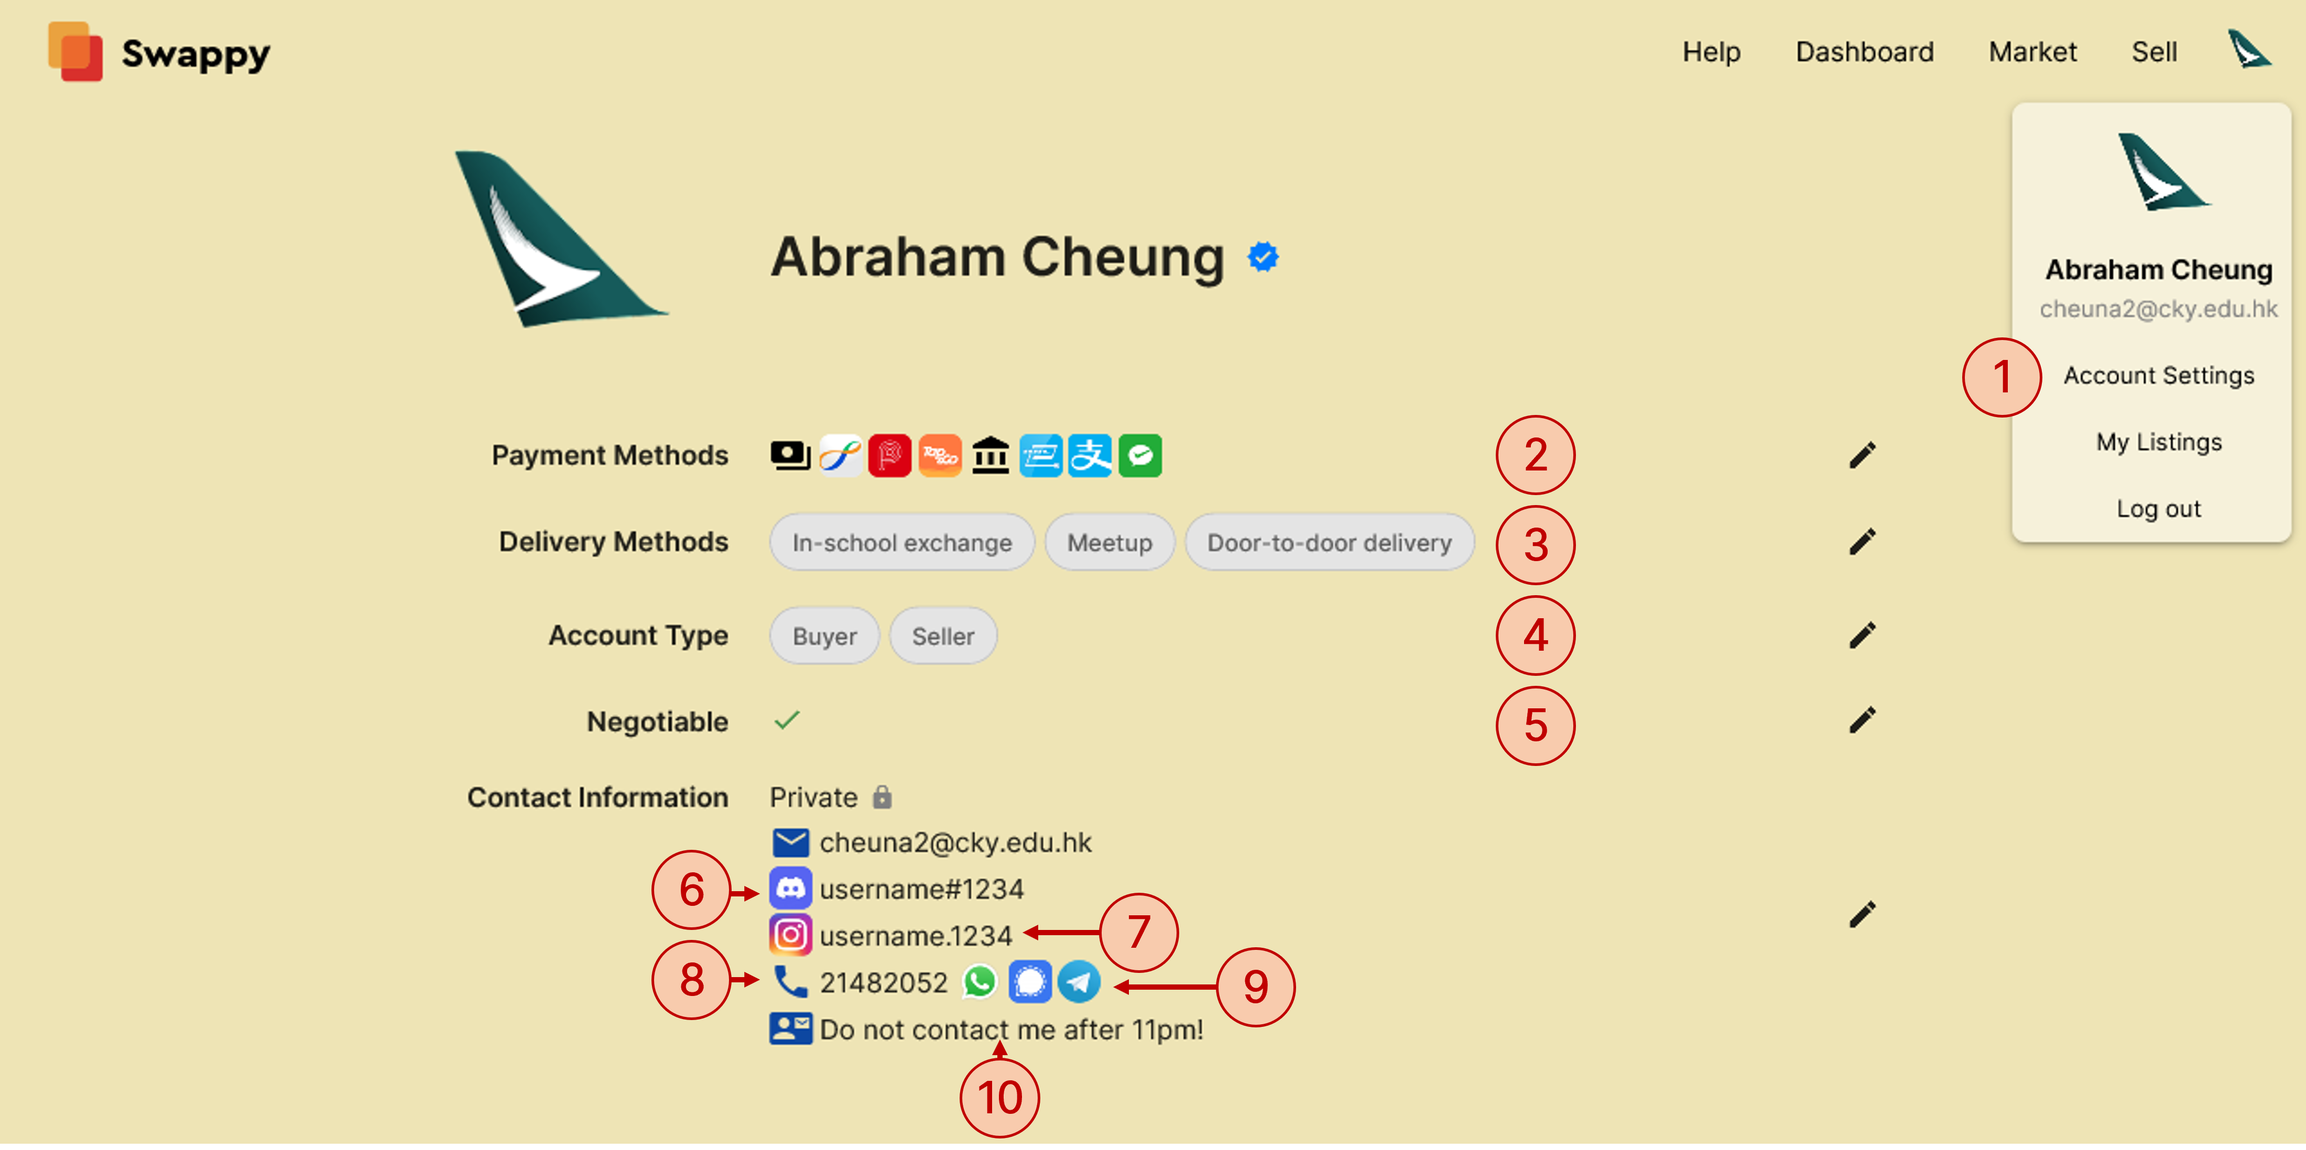
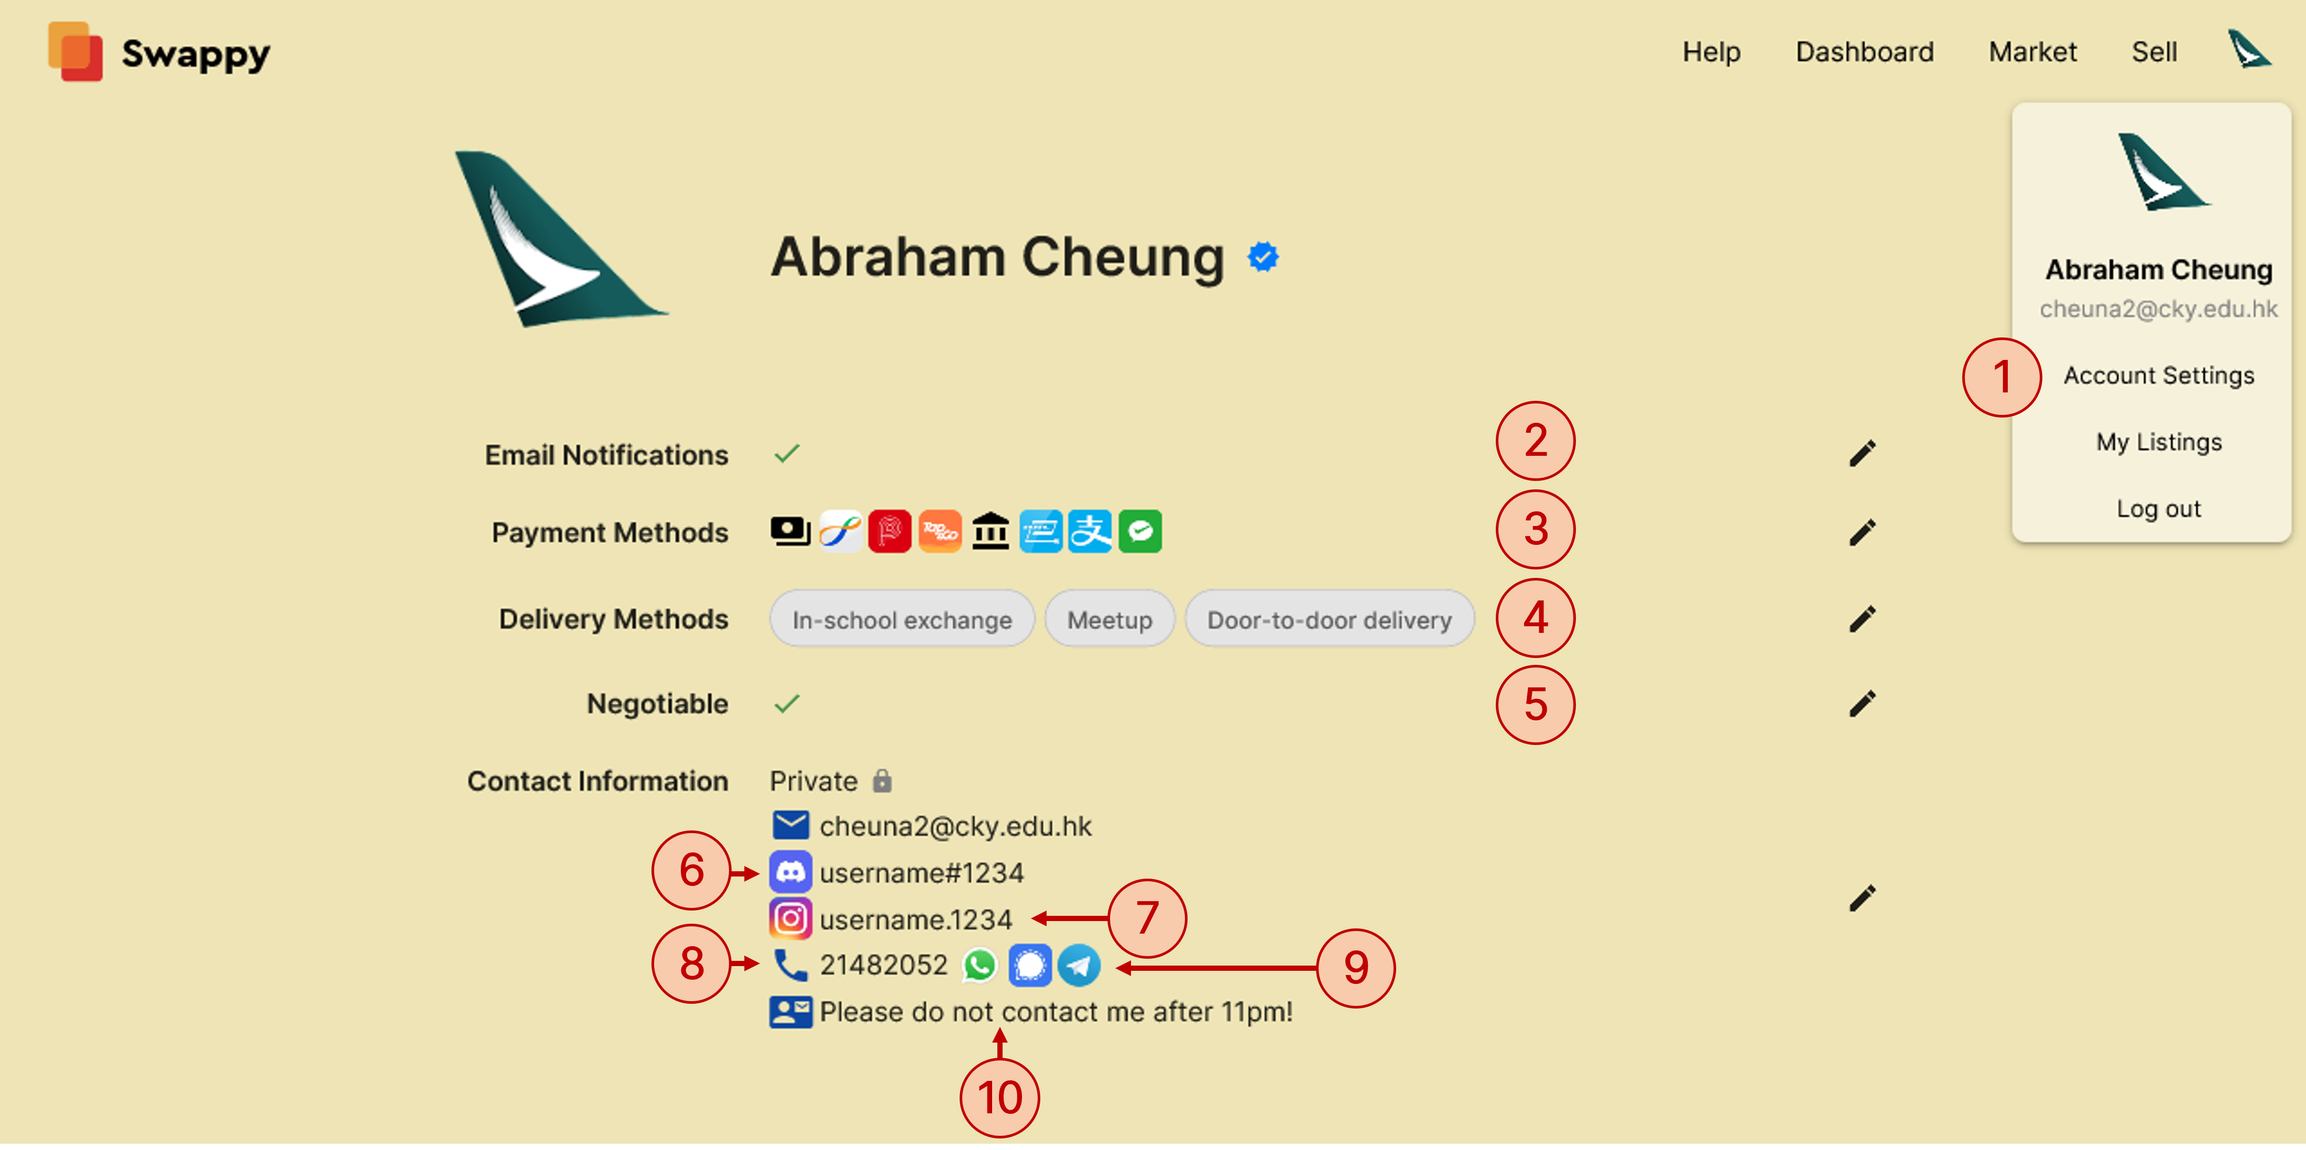
finish help template

diff --git a/project/templates/help.html b/project/templates/help.html
@@ -27,36 +27,38 @@
                 <li>By default, contact information are not publicly visible. The system automatically requests the buyer/seller to disclose their contact information to the other end.</li>
                 <li>When the request has been accepted, then the buyer/seller can then arrange the meetup/exchange via their own means.</li>
             </ol>
-            <div class="font-size-24 text-bold mt-16">Where do I start?</div>
+            <div class="font-size-24 text-bold mt-16" id="settings">Where do I start?</div>
             <div>Start by configuring your settings in 'Account Settings' under your profile picture!</div>
             <img class="w-full mt-16" src="/static/img/help/settings.png" />
             <ol>
                 <li>You can find the 'Account Settings' section under your profile picture.</li>
+                <li>Toggle whether to recieve notifications when offers are created on your listings (for sellers only).</li>
                 <li>Select your accepted payment methods, they can be in cash, Octopus, PayMe, Tap & Go, Bank Transfer, e-Cheque, Alipay and/or Wechat Pay.</li>
                 <li>Select your accepted delivery methods, such as in-school exchange, in-person meetup and door-to-door delivery.</li>
-                <li>Select your intended account type, such as being a buyer and/or seller.</li>
-                <li>If you are a seller, this option will allow you to indicate if prices are negotiable.</li>
+                <li>Toggle whether you are open to price negotiations.</li>
                 <li>Your Discord username (in the format of username#1234) if you have one.</li>
                 <li>Your Instagram username (in the format of username.1234)</li>
                 <li>Your Hong Kong phone number.</li>
                 <li>Select the relevant communication apps, they can be WhatsApp, Signal and/or Telegram.</li>
                 <li>Any remarks you'd like to add, such as alternative contact methods.</li>
             </ol>
-            <div>Note that by default, all contact information are private. To expedite the process of buyers contacting you, set the contact information visibility to public to avoid having the buyer to request to view your information (at your own risk).</div>
+            <div>Note that by default, all contact information are private, meaning it cannot be visible by anyone besides you. This is to protect your information against people who are not from CKY.</div>
+            <div>If your contact information is set to private, the buyer/seller will have to request to view your information. When you have granted access, the contact information will then be visible by the other side.</div>
+            <div>If you want to expedite the process of buyers contacting you, set the contact information visibility to public. However, do it at your <span class="text-bold">own risk</span> as the information will be visible by people everyone, including people not from CKY.</div>
 
-            <div class="font-size-20 text-bold mt-16">If you are a seller,</div>
-            <div>On the top navigation bar, click 'Sell' to start uploading your book.</div>
+            <div class="font-size-20 text-bold mt-16" id="sell">If you are a seller,</div>
+            <div class="mt-16">On the top navigation bar, click 'Sell' to start uploading your book.</div>
             <img class="w-full mt-16" src="/static/img/help/sell.png" />
             <ol>
-                <li>Start by typing in the book's name, ISBN, publisher, author to begin the search.</li>
-                <li>Select a book from the list. Make sure the ISBN matches!</li>
-                <li>Take a few images of your book, for example the front cover, back cover and other parts if needed.</li>
+                <li>Start by typing in the book's name, ISBN, publisher or author to begin the search. For more information of custom searches, please go to the <a href="#query">query parameters</a> section.</li>
+                <li>Select a book from the list. <span class="text-bold">Make sure the ISBN matches!</span></li>
+                <li>Take 1-5 images of your book using your camera, for example the front cover, back cover and other parts if needed.</li>
                 <li>Type in the desired price (integers only, no decimals).</li>
                 <li>Select the matching book's state/condition</li>
                 <li>Select the book's amount of internal markings, such as drawings or notes.</li>
                 <li>If needed, write down any special remarks about the book, such as missing pages etc.</li>
             </ol>
-            <div>Once the book has been uploaded, you can manage it in the 'My Listings' section.</div>
+            <div id="mylistings">Once the book has been uploaded, you can manage it in the 'My Listings' section.</div>
             <img class="w-full mt-16" src="/static/img/help/mylistings.png" />
             <ol>
                 <li>You can find the 'My Listings' section under your profile picture.</li>
@@ -64,9 +66,76 @@
                 <li>Delete Listing allows you to permanently delete the listing from the market, and automatically cancel any pending offers.</li>
             </ol>
 
-            <div class="font-size-20 text-bold mt-16">If you are a buyer,</div>
-            <div>Market (to be worked on)</div>
+            <div class="font-size-20 text-bold mt-16" id="market">If you are a buyer,</div>
+            <div class="mt-16">On the top navigation bar, click 'Market' to start searching for books to purchase.</div>
+            <img class="w-full mt-16" src="/static/img/help/market.png" />
+            <ol>
+                <li>Start by typing in the book's name, ISBN, publisher or author to begin the search. For more information of custom searches, please go to the <a href="#query">query parameters</a> section.</li>
+                <li>Click to view the details of the offer, which will include a list of all sellers.</li>
+            </ol>
+            <div id="market_detail">When you click into 'View details' button, it will take you to offer's details:</div>
+            <img class="w-full mt-16" src="/static/img/help/market_detail.png" />
+            <ol>
+                <li>Shows the detailed owner profile - including contact information (if made public).</li>
+                <li>Shows the images uploaded by the seller.</li>
+                <li>Makes an offer to the seller. Doing so will notify the seller that you intend to purchase the book.</li>
+                <li>Once an offer has been created, it will notify you to go to the dashboard.</li>
+            </ol>
+            <div class="font-size-20 text-bold mt-16" id="dashboard_messages">Dashboard (messages)</div>
+            <img class="w-full mt-16" src="/static/img/help/dashboard_messages.png" />
+            <ol>
+                <li>Shows the user's messages/updates to their offers.</li>
+                <li>Toggles whether the browser should notify you about new changes.</li>
+                <li>All messages will appear here, sorted by newest to oldest.</li>
+            </ol>
+            <div>Please note that in order to recieve browser notifications, you <span class="text-bold">must</span> keep the browser tab open, and the messages menu open.</div>
+            <div>Please also note that unlike browser notifications, e-mail notifications will only notify you about new offer creations if you are a seller.</div>
+
+            <div class="font-size-20 text-bold mt-16" id="dashboard_seller">Dashboard (seller)</div>
+            <img class="w-full mt-16" src="/static/img/help/dashboard_seller.png" />
+            <ol>
+                <li>Clicking this will expand a list of buyers who have created an offer on your listing.</li>
+                <li>Clicking this will select the buyer, updating the menu on the right.</li>
+                <li>Shows the images uploaded by you.</li>
+                <li>As long as the buyer has set their contact information to be public, or has granted you access to it, the buyer's contact information will be shown; otherwise you will have to wait for the buyer's confirmation.</li>
+                <li>If you have set your information to be private, you have the option to grant the buyer's access to your contact information. Otherwise, it will indicate that the information is visible to everyone.</li>
+                <li>When you have completed the offer/already exchanged the book with the buyer, clicking on this button will delete the listing and remove all pending buyers' offers, and will no longer be avaliable to anyone.</li>
+                <li>Cancels the offer with the buyer.</li>
+            </ol>
+            
+            <div class="font-size-20 text-bold mt-16" id="dashboard_buyer">Dashboard (buyer)</div>
+            <img class="w-full mt-16" src="/static/img/help/dashboard_buyer.png" />
+            <ol>
+                <li>Clicking this will expand a list of sellers offering the current book.</li>
+                <li>Clicking this will select the seller, updating the menu on the right.</li>
+                <li>Shows the images uploaded by the seller.</li>
+                <li>As long as the seller has set their contact information to be public, or has granted you access to it, the seller's contact information will be shown; otherwise you will have to wait for the seller's confirmation.</li>
+                <li>If you have set your information to be private, you have the option to grant the seller's access to your contact information. Otherwise, it will indicate that the information is visible to everyone.</li>
+                <li>Cancels the offer with the seller.</li>
+            </ol>
+
+            <div class="font-size-20 text-bold mt-16" id="query">Query parameters</div>
+            <div class="mt-16">Below are some tags you can use during searches:</div>
+            <ul class="browser-default mt-8">
+                <li><span class="text-bold">intitle:</span>x - returns results where x is found in the title</li>
+                <li><span class="text-bold">inauthor:</span>x - returns results where x is found in the author</li>
+                <li><span class="text-bold">inpublisher:</span>x - returns results where x is found in the publisher</li>
+                <li><span class="text-bold">subject:</span>x - returns results where x is found in the list of categories of the book</li>
+                <li><span class="text-bold">isbn:</span>x - returns results where x is the ISBN number.</li>
+                <li><span class="text-bold">lccn:</span>x - returns results where x is the Library of Congress Control Number.</li>
+                <li><span class="text-bold">oclc:</span>x - returns results where x is the Online Computer Library Center number.</li>
+            </ul>
+        </div>
+    </div>
+    <div class="row">
+        <div class="col s12">
+            <div class="font-size-24 text-bold mt-16" id="contact">Contact us</div>
+            <div>If you have any questions or queries, feel free to contact us at <span data-email></span>, or send us a message at cathayexpress#2424 on Discord.</div>
         </div>
     </div>
 </div>
+{% endblock %}
+
+{% block scripts %}
+    <script type="text/javascript" src="{{ url_for('static', filename='js/tos.js') }}"></script>
 {% endblock %}

diff --git a/project/templates/aboutus.html b/project/templates/aboutus.html
@@ -55,7 +55,7 @@
             <div class="font-size-24 text-bold mt-16">Our Vision</div>
             <div class="mt-16">Books have long been an essential part of education in our school:</div>
             <div class="italic">"Our school has been promoting the use of readers and novels as the main source of materials for teaching languages."</div>
-            <div class="italic right-align">~ Principal Lau</div>
+            <div class="italic right-align">- Principal Lau</div>
 
             <div class="mt-16">The systemic issue in the world of literacy is that books are expensive.</div>
             <div>We believe that <span class="text-bold">money should not be a barrier to education</span>.</div>
@@ -75,7 +75,7 @@
             <div>Swappy warns users accordingly if the buyer of seller isn't from CKY, adding a layer of trust (this is done by detecting whether the user's e-mail address belongs to CKY, which cannot be changed after the user has signed up).</div>
             <div>By default, your contact information will be private. This means that no one will be able to access it, until it you manually disclose the information to the buyer/seller, or set it to public.</div>
             <div>We will also never share your information to any third-party unless required by law.</div>
-            <div>Security have always been our top priority, with protections including but not limited to resistance against DDoS attacks, SQL injection, XSS attacks and CSRF.</div>
+            <div>Security have always been our top priority, with protections including but not limited to resistance against SQL injection, XSS attacks and CSRF.</div>
             <div>You can read more about your data in our <a href="/privacy-notice">privacy notice</a>.</div>
             
             <div class="font-size-20 text-bold mt-16">Convenient and Localised</div>

diff --git a/project/static/js/market.js b/project/static/js/market.js
@@ -121,7 +121,7 @@ $(document).ready(function() {
             });
         }).catch(e => {
             if (e instanceof NoGoogleBooksResultsError) {
-                $('[data-element="help"]').html("No results found. Please check your inputs.");
+                $('[data-element="help"]').html(`<div>No results found. Please check your inputs.</div><div>If you are searching by ISBN, add an <span class="text-bold">isbn:</span> prefix.</div><div>For more information about prefixes, check the <a href="/help#query">query</a> section of help.</div>`);
             } else if (e instanceof NetworkError) {
                 $('[data-element="help"]').html("An error occured when retrieving data. Please check your connection or try again.");
             } else {
@@ -152,12 +152,14 @@ $(document).ready(function() {
             await aggregate(json.items.map(e => e.id));
         }).catch(e => {
             if (e instanceof NoGoogleBooksResultsError) {
-                $('[data-element="help"]').html("No results found. Please check your inputs.");
+                $('[data-element="help"]').html(`<div>No results found. Please check your inputs.</div><div>If you are searching by ISBN, add an <span class="text-bold">isbn:</span> prefix.</div><div>For more information about prefixes, check the <a href="/help#query">query</a> section of help.</div>`);
             } else if (e instanceof NetworkError) {
                 $('[data-element="help"]').html("An error occured when retrieving data. Please check your connection or try again.");
             } else {
                 console.error(e);
             }
+        }).finally(() => {
+            $('[data-element="progress"]').addClass("hide");
         });
     }
 

diff --git a/project/static/js/dashboard.js b/project/static/js/dashboard.js
@@ -107,7 +107,7 @@ $(document).ready(function() {
         $('[data-element="controls"]').html(`<div class="row mb-0">
             <div class="col s12 mt-8" data-element="message_box">
                 <div class="font-size-12 text-italic text-muted mb-0">To send offer creation notifications to your registered e-mail, navigate to your <a href="/settings">account settings</a>.</div>
-                <div class="font-size-12 text-italic text-muted mb-0">Keep this window open to recieve push notifications. Updates automatically every 1 minute.</div>
+                <div class="font-size-12 text-italic text-muted mb-0">Keep this window open to recieve other push notifications. Updates automatically every 1 minute.</div>
                 <a class="btn px-8 mb-8 roundBox btn-transparent unselectable" data-button="toggle_notification">
                     <i class="material-icons left" data-field="notification_icon"></i>
                     <span data-field="notification_text"></span>

diff --git a/project/static/js/sell.js b/project/static/js/sell.js
@@ -68,7 +68,7 @@ $(document).ready(function() {
             }
         }).catch(e => {
             if (e instanceof NoGoogleBooksResultsError) {
-                $('[data-element="help"]').html("No results found. Please check your inputs.");
+                $('[data-element="help"]').html(`<div>No results found. Please check your inputs.</div><div>If you are searching by ISBN, add an <span class="text-bold">isbn:</span> prefix.</div><div>For more information about prefixes, check the <a href="/help#query">query</a> section of help.</div>`);
             } else if (e instanceof NetworkError) {
                 $('[data-element="help"]').html("An error occured when retrieving data. Please check your connection or try again.");
             } else {

diff --git a/project/templates/dashboard.html b/project/templates/dashboard.html
@@ -114,7 +114,7 @@
             <div class="row mx-16 mt-0 mb-0">
                 <div class="s12 font-size-16">
                     <div>Completing an offer means that you have already exchanged the book with the buyer.</div>
-                    <div>This will delete the listing and remove all pending buying offers, and will no longer be avaliable to everyone.</div>
+                    <div>This will delete the listing and remove all pending buyers' offers, and will no longer be avaliable to everyone.</div>
                     <div>This action is irreversible. Do you want to continue?</div>
                 </div>
             </div>

diff --git a/README.md b/README.md
@@ -119,8 +119,9 @@ $ ./start.sh
 - [x] Make email as private information, toggleable
 - [x] Make contact information to be private by default
 - [x] Welcome Template
-- [ ] About us Template
-- [ ] Help Template - Stress user responsibility!
+- [x] About us Template
+- [x] Help Template - Stress user responsibility!
+- [ ] Base and Help Template - Quick links to help
 - [x] Privacy Policy Template
 - [x] Terms of service Template
 - [x] I agree to TOS and privacy policy confirmation in Signup Template
